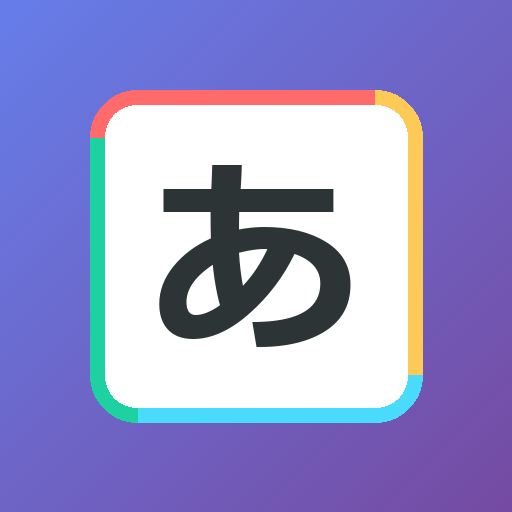
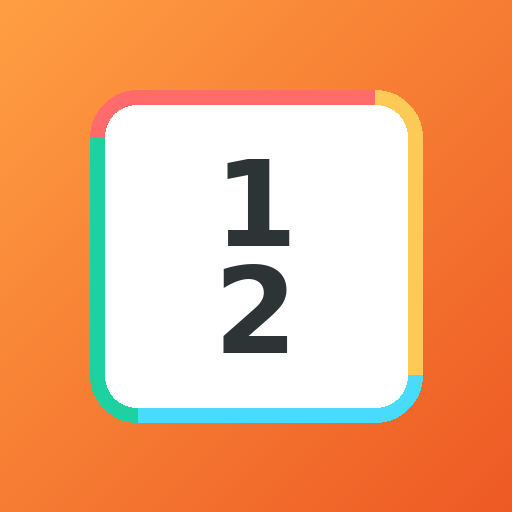
feat: アイコンを数字モチーフ・暖色系に刷新 (fixes #1) (#7)
generate_icon.py を改修し、紫系グラデーションと「あ」から
オレンジ系グラデーション (#FF9F43→#EE5A24) と数字「1」「2」縦並びに変更。
前作「ひらがなたからさがし」と配色・モチーフで明確に区別できる。

diff --git a/scripts/generate_icon.py b/scripts/generate_icon.py
@@ -1,33 +1,33 @@
 #!/usr/bin/env python3
 """
-Generate app icons for ひらがなたからさがし.
+Generate app icons for いちにのぽん!.
 Output: icons/icon-180.png, icons/icon-512.png
 
 Design:
-  - Background: purple gradient #667eea → #764ba2 (135deg)
+  - Background: warm orange gradient #FF9F43 → #EE5A24 (135deg)
   - Centered white rounded tile
-  - Rainbow border (4 colors, one per side) like in-game tiles
-  - Bold dark-navy「あ」character
+  - Rainbow border (4 colors, one per side)
+  - Bold digits「1」「2」stacked, in dark navy
 """
 
 import os
-import sys
 from PIL import Image, ImageDraw, ImageFont
 
 OUT_DIR = 'icons'
 
 FONT_CANDIDATES = [
+    '/usr/share/fonts/truetype/dejavu/DejaVuSans-Bold.ttf',
+    '/mnt/c/Windows/Fonts/NotoSans-Bold.ttf',
+    '/mnt/c/Windows/Fonts/arialbd.ttf',
     '/mnt/c/Windows/Fonts/meiryob.ttc',
     '/mnt/c/Windows/Fonts/YuGothB.ttc',
-    '/mnt/c/Windows/Fonts/NotoSansJP-VF.ttf',
 ]
 
-BG_START   = (102, 126, 234)  # #667eea
-BG_END     = (118,  75, 162)  # #764ba2
+BG_START   = (255, 159,  67)  # #FF9F43  warm orange
+BG_END     = (238,  90,  36)  # #EE5A24  deep orange-red
 TILE_WHITE = (255, 255, 255)
 TEXT_DARK  = ( 45,  52,  54)  # #2d3436
 
-# 4 border colors (top / right / bottom / left), from TILE_BORDER_COLORS
 BORDER_COLORS = [
     (255, 107, 107),  # #FF6B6B  top
     (254, 202,  87),  # #FECA57  right
@@ -35,25 +35,23 @@ BORDER_COLORS = [
     ( 29, 209, 161),  # #1DD1A1  left
 ]
 
-CHAR = 'あ'
+DIGITS = ['1', '2']
 
 
 def load_font(size):
-    # type: (int) -> ImageFont.FreeTypeFont
     for path in FONT_CANDIDATES:
         try:
             return ImageFont.truetype(path, size)
         except (IOError, OSError):
             continue
     raise RuntimeError(
-        'Japanese font not found.\n'
-        'Install with: sudo apt-get install fonts-noto-cjk\n'
+        'Font not found.\n'
+        'Install with: sudo apt-get install fonts-dejavu-core\n'
         'Candidates: ' + ', '.join(FONT_CANDIDATES)
     )
 
 
 def gradient_bg(size):
-    # type: (int) -> Image.Image
     img = Image.new('RGB', (size, size))
     pix = img.load()
     r1, g1, b1 = BG_START
@@ -70,49 +68,35 @@ def gradient_bg(size):
 
 
 def draw_rainbow_border(draw, x0, y0, x1, y1, radius, border_w):
-    # type: (ImageDraw.ImageDraw, int, int, int, int, int, int) -> None
-    """Draw 4-color border (top/right/bottom/left) on a rounded rect."""
     ct, cr, cb, cl = BORDER_COLORS
 
-    # straight edges
-    draw.rectangle([x0 + radius, y0,      x1 - radius, y0 + border_w - 1], fill=ct)  # top
-    draw.rectangle([x1 - border_w + 1, y0 + radius, x1, y1 - radius],     fill=cr)  # right
-    draw.rectangle([x0 + radius, y1 - border_w + 1, x1 - radius, y1],     fill=cb)  # bottom
-    draw.rectangle([x0, y0 + radius, x0 + border_w - 1, y1 - radius],     fill=cl)  # left
+    draw.rectangle([x0 + radius, y0,               x1 - radius, y0 + border_w - 1], fill=ct)
+    draw.rectangle([x1 - border_w + 1, y0 + radius, x1,         y1 - radius],       fill=cr)
+    draw.rectangle([x0 + radius, y1 - border_w + 1, x1 - radius, y1],               fill=cb)
+    draw.rectangle([x0, y0 + radius, x0 + border_w - 1, y1 - radius],               fill=cl)
 
-    # corners: quadrant arcs with full bounding box of the ellipse at each corner
     arc_w = border_w
-    # top-left (color: average top+left → use top)
-    draw.arc([x0, y0, x0 + 2*radius, y0 + 2*radius], 180, 270, fill=ct, width=arc_w)
-    # top-right (use top)
-    draw.arc([x1 - 2*radius, y0, x1, y0 + 2*radius], 270, 360, fill=cr, width=arc_w)
-    # bottom-right (use bottom)
-    draw.arc([x1 - 2*radius, y1 - 2*radius, x1, y1], 0, 90, fill=cb, width=arc_w)
-    # bottom-left (use left)
-    draw.arc([x0, y1 - 2*radius, x0 + 2*radius, y1], 90, 180, fill=cl, width=arc_w)
+    draw.arc([x0,          y0,          x0 + 2*radius, y0 + 2*radius], 180, 270, fill=ct, width=arc_w)
+    draw.arc([x1 - 2*radius, y0,        x1,            y0 + 2*radius], 270, 360, fill=cr, width=arc_w)
+    draw.arc([x1 - 2*radius, y1 - 2*radius, x1,        y1],             0,  90, fill=cb, width=arc_w)
+    draw.arc([x0,          y1 - 2*radius, x0 + 2*radius, y1],          90, 180, fill=cl, width=arc_w)
 
 
 def generate(size):
-    # type: (int) -> Image.Image
     img = gradient_bg(size)
     draw = ImageDraw.Draw(img)
 
-    # tile geometry (65% of image)
     tile_size = int(size * 0.65)
     tx0 = (size - tile_size) // 2
     ty0 = (size - tile_size) // 2
     tx1 = tx0 + tile_size
     ty1 = ty0 + tile_size
-    radius = tile_size // 7       # corner radius
-    border_w = max(4, tile_size // 22)  # border thickness
+    radius   = tile_size // 7
+    border_w = max(4, tile_size // 22)
 
-    # outer rounded rect (border layer)
     draw.rounded_rectangle([tx0, ty0, tx1, ty1], radius=radius, fill=TILE_WHITE)
-
-    # draw 4-color border on top
     draw_rainbow_border(draw, tx0, ty0, tx1, ty1, radius, border_w)
 
-    # inner white fill (shrink by border width to preserve border visibility)
     inner = border_w
     draw.rounded_rectangle(
         [tx0 + inner, ty0 + inner, tx1 - inner, ty1 - inner],
@@ -120,25 +104,36 @@ def generate(size):
         fill=TILE_WHITE,
     )
 
-    # character — fit to ~70% of tile interior
     inner_size = tile_size - 2 * inner
-    target_h = int(inner_size * 0.70)
+    gap_ratio  = 0.06
+    gap        = int(inner_size * gap_ratio)
+    n          = len(DIGITS)
+    slot_h     = (inner_size - gap * (n - 1)) // n
+
+    # Choose font size: fit each digit to 85% of slot height
+    target_h = int(slot_h * 0.85)
     font = load_font(target_h)
 
-    bb = font.getbbox(CHAR)           # (left, top, right, bottom)
-    glyph_w = bb[2] - bb[0]
-    glyph_h = bb[3] - bb[1]
+    bboxes = [font.getbbox(d) for d in DIGITS]
+    glyph_hs = [bb[3] - bb[1] for bb in bboxes]
+    block_h = sum(glyph_hs) + gap * (n - 1)
 
-    cx = tx0 + inner + (inner_size - glyph_w) // 2 - bb[0]
-    cy = ty0 + inner + (inner_size - glyph_h) // 2 - bb[1]
+    cy_start = ty0 + inner + (inner_size - block_h) // 2
 
-    draw.text((cx, cy), CHAR, font=font, fill=TEXT_DARK)
+    y_cursor = cy_start
+    for i, digit in enumerate(DIGITS):
+        bb = bboxes[i]
+        glyph_w = bb[2] - bb[0]
+        glyph_h = glyph_hs[i]
+        cx = tx0 + inner + (inner_size - glyph_w) // 2 - bb[0]
+        cy = y_cursor - bb[1]
+        draw.text((cx, cy), digit, font=font, fill=TEXT_DARK)
+        y_cursor += glyph_h + gap
 
     return img
 
 
 def main():
-    # type: () -> None
     os.makedirs(OUT_DIR, exist_ok=True)
     for size, name in [(180, 'icon-180.png'), (512, 'icon-512.png')]:
         img = generate(size)
